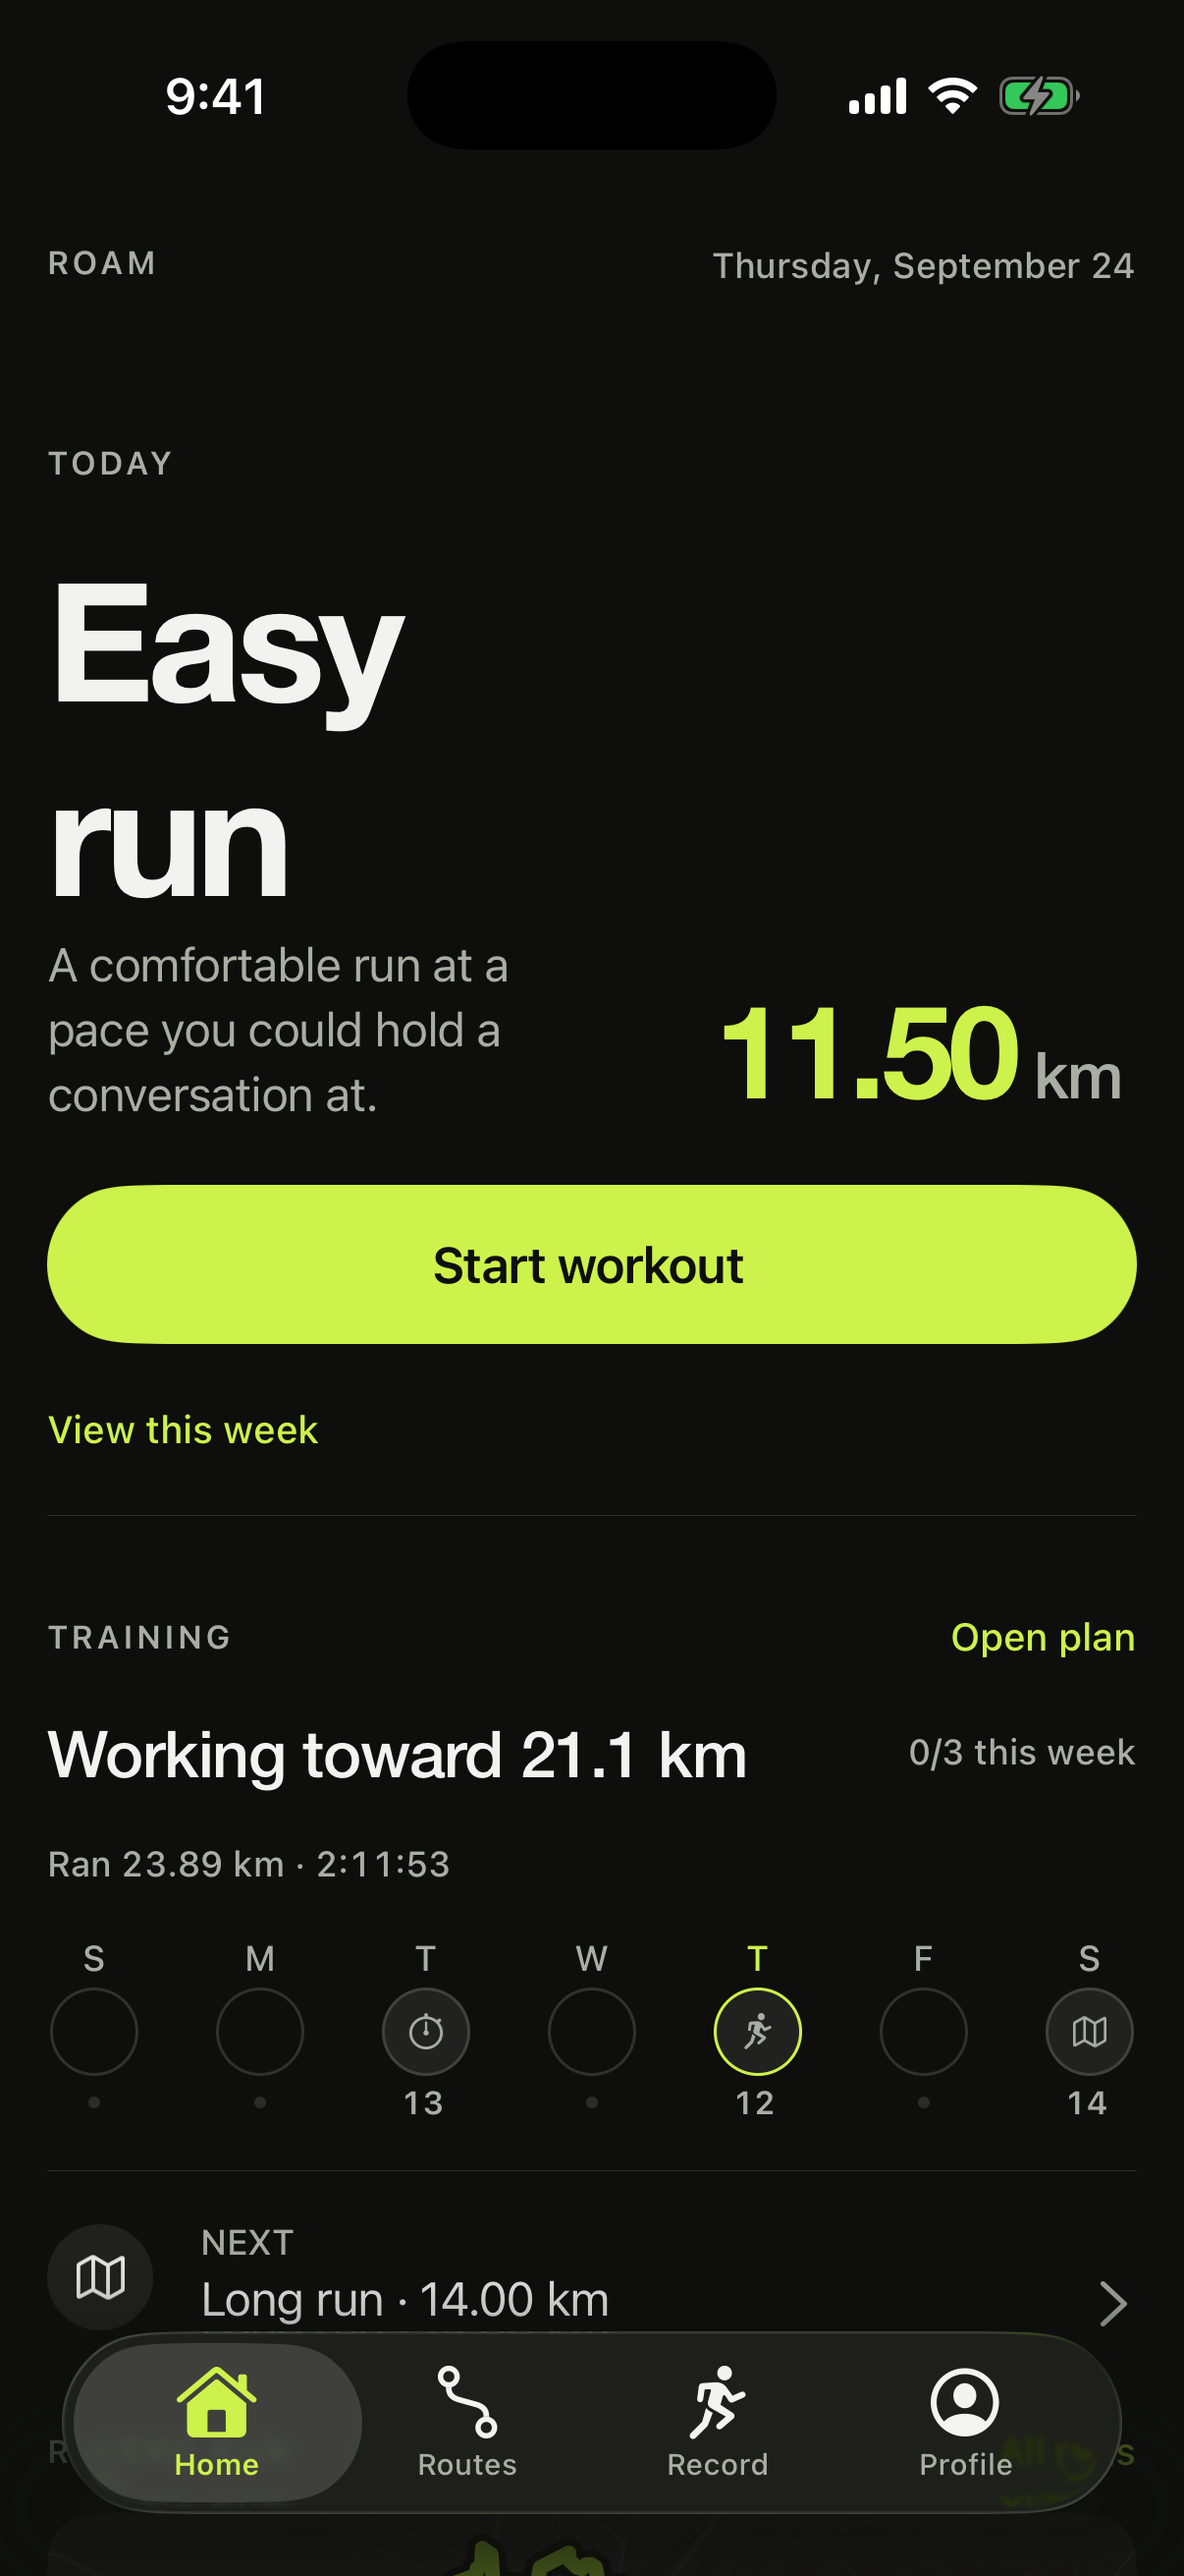
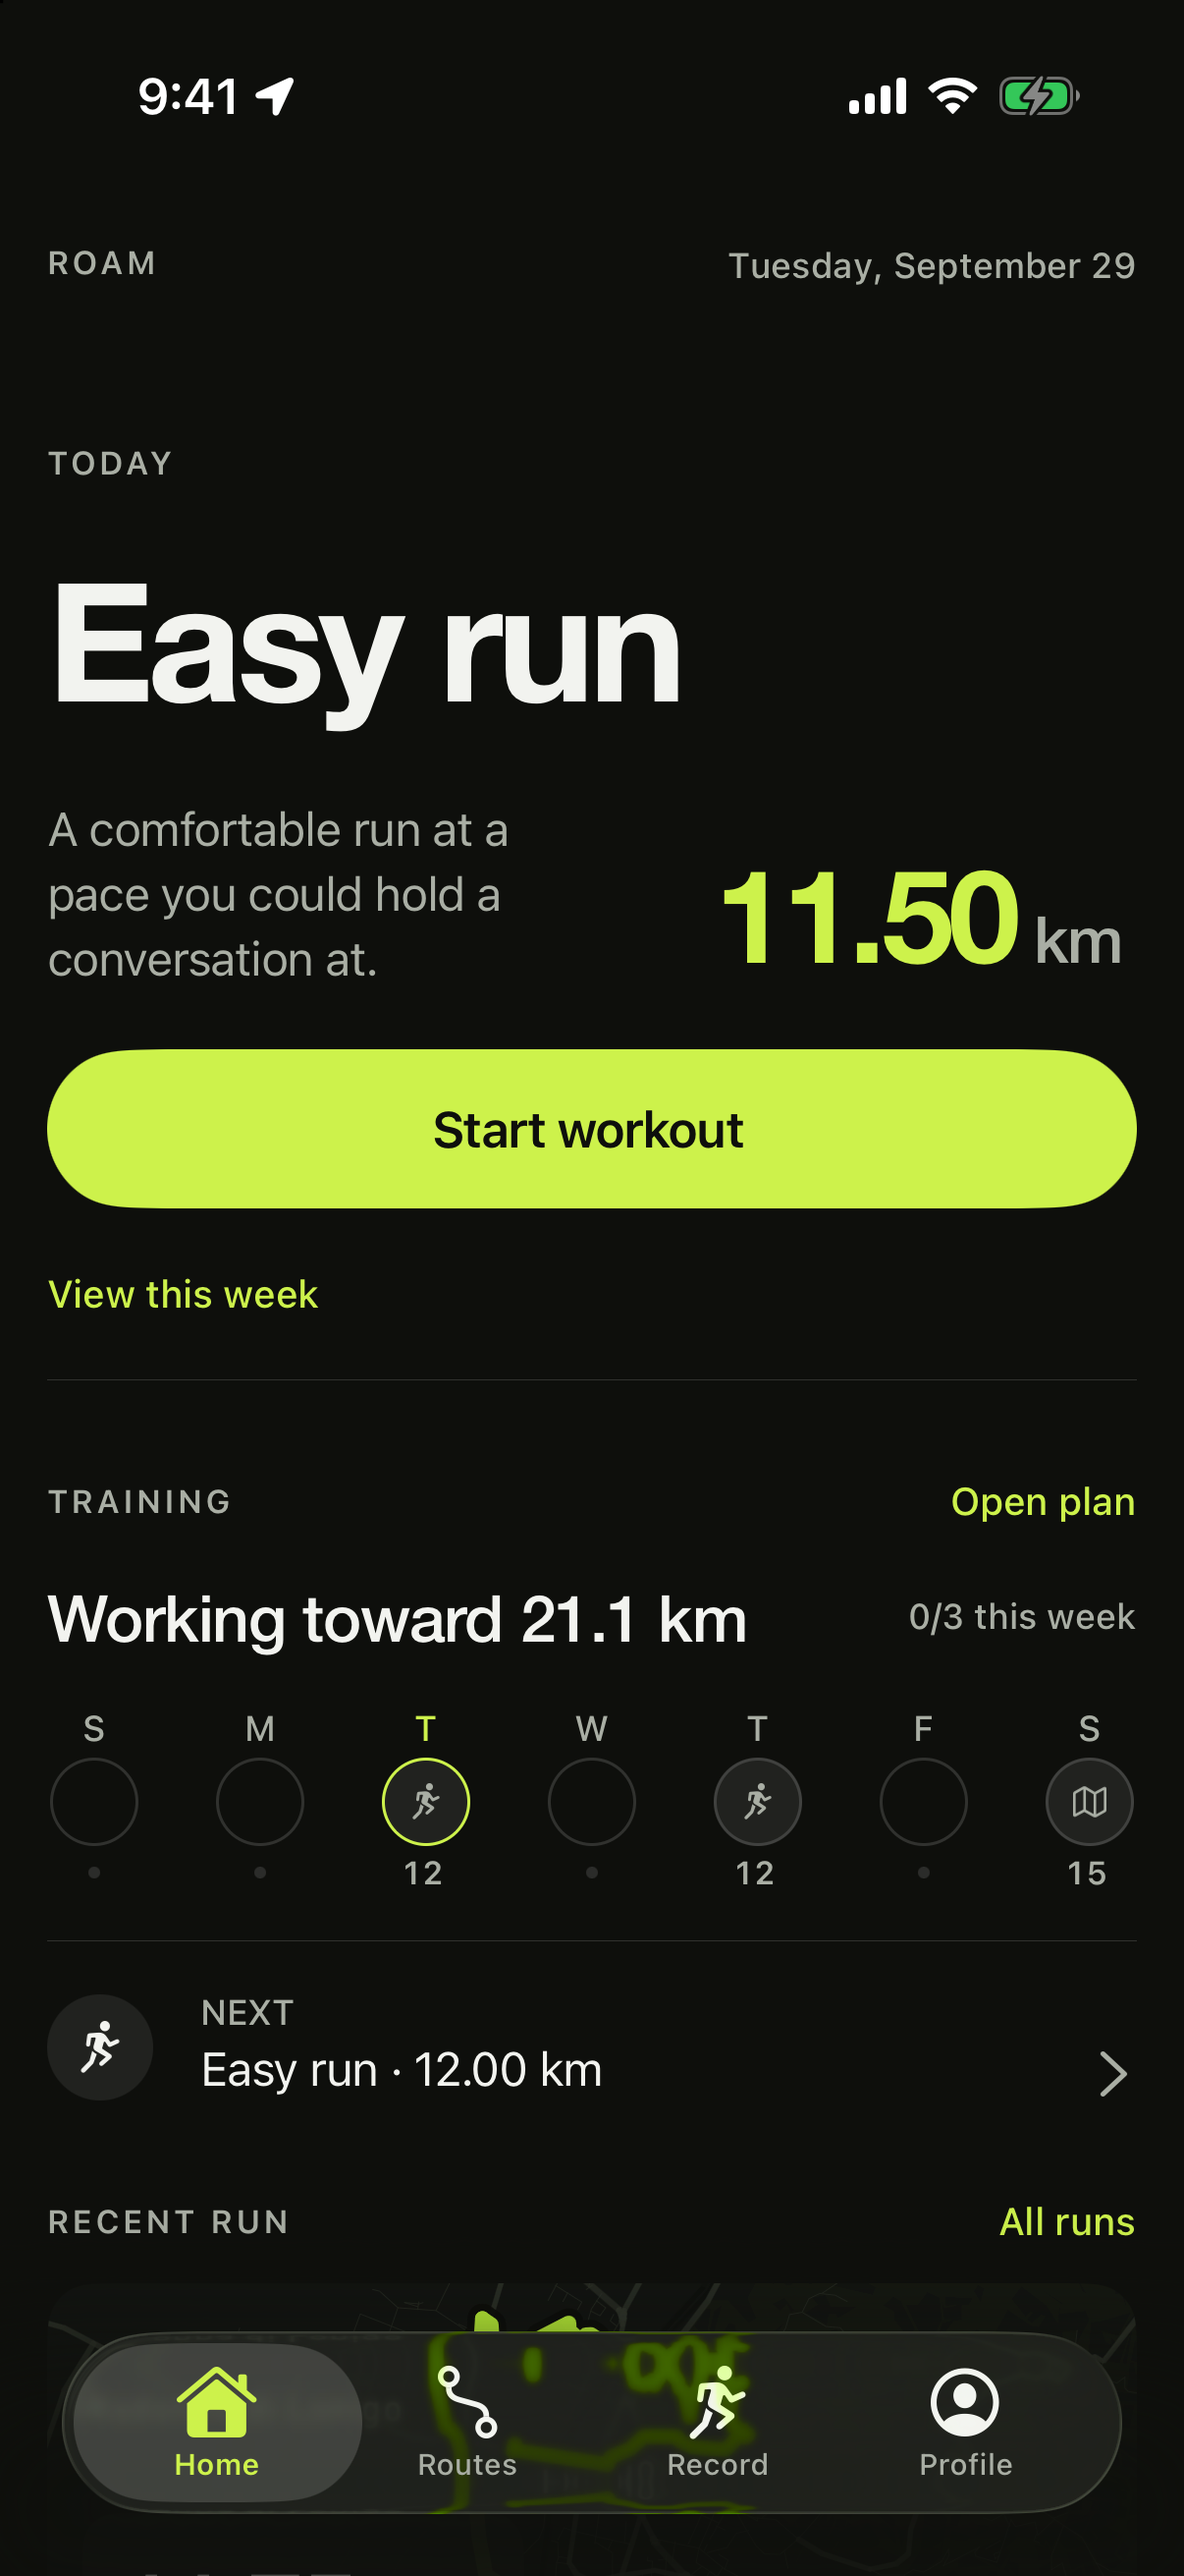
docs(portfolio): refresh Home/Today hero with the title on one line
Re-capture home-today.png (dark) after the Today hero title fix, and add
home-today-light.png so the case study covers both appearances. The screenshot
date advances to the capture day.

diff --git a/docs/portfolio/roam/README.md b/docs/portfolio/roam/README.md
@@ -60,7 +60,8 @@ long paragraphs, exaggerated claims, fake metrics, or invented features.
 
 ## Recommended image order
 
-1. `home-today.png` — hero image. Home / Today with the active plan.
+1. `home-today.png` — hero image (dark). Home / Today with the active plan.
+   `home-today-light.png` is the same screen in light appearance.
 2. `start-run.png` — primary action and distance selection.
 3. `routes.png` — generated route geometry and options.
 4. `active-run.png` — live metrics and progress.
